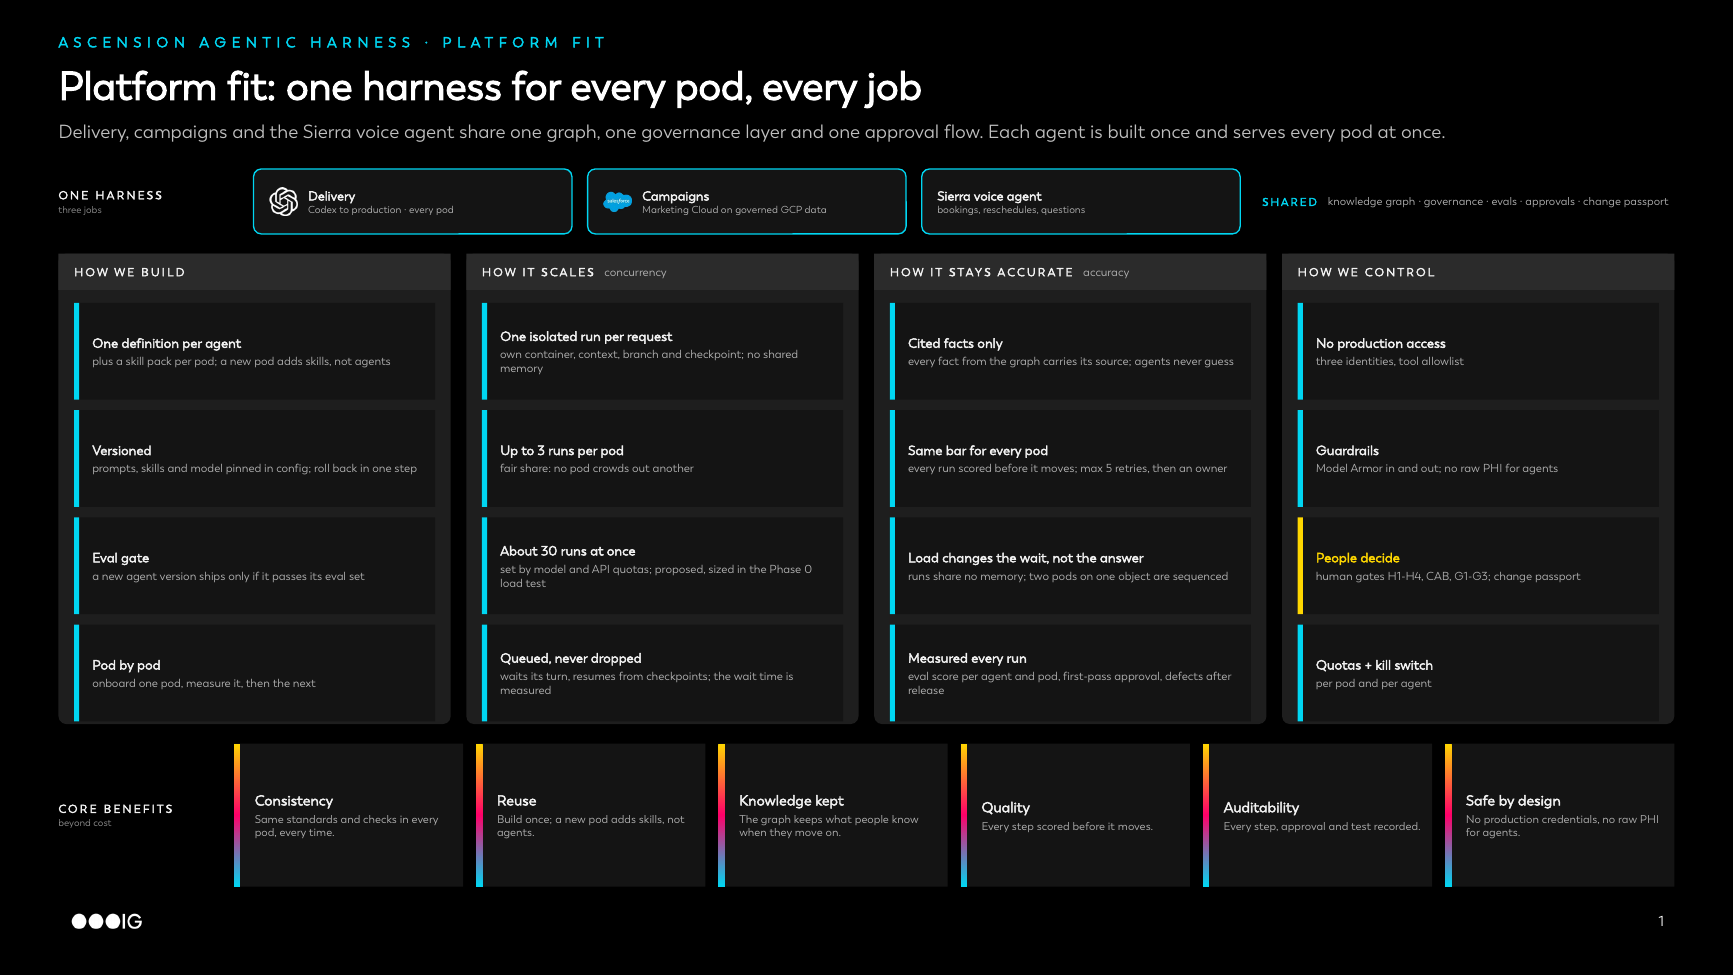
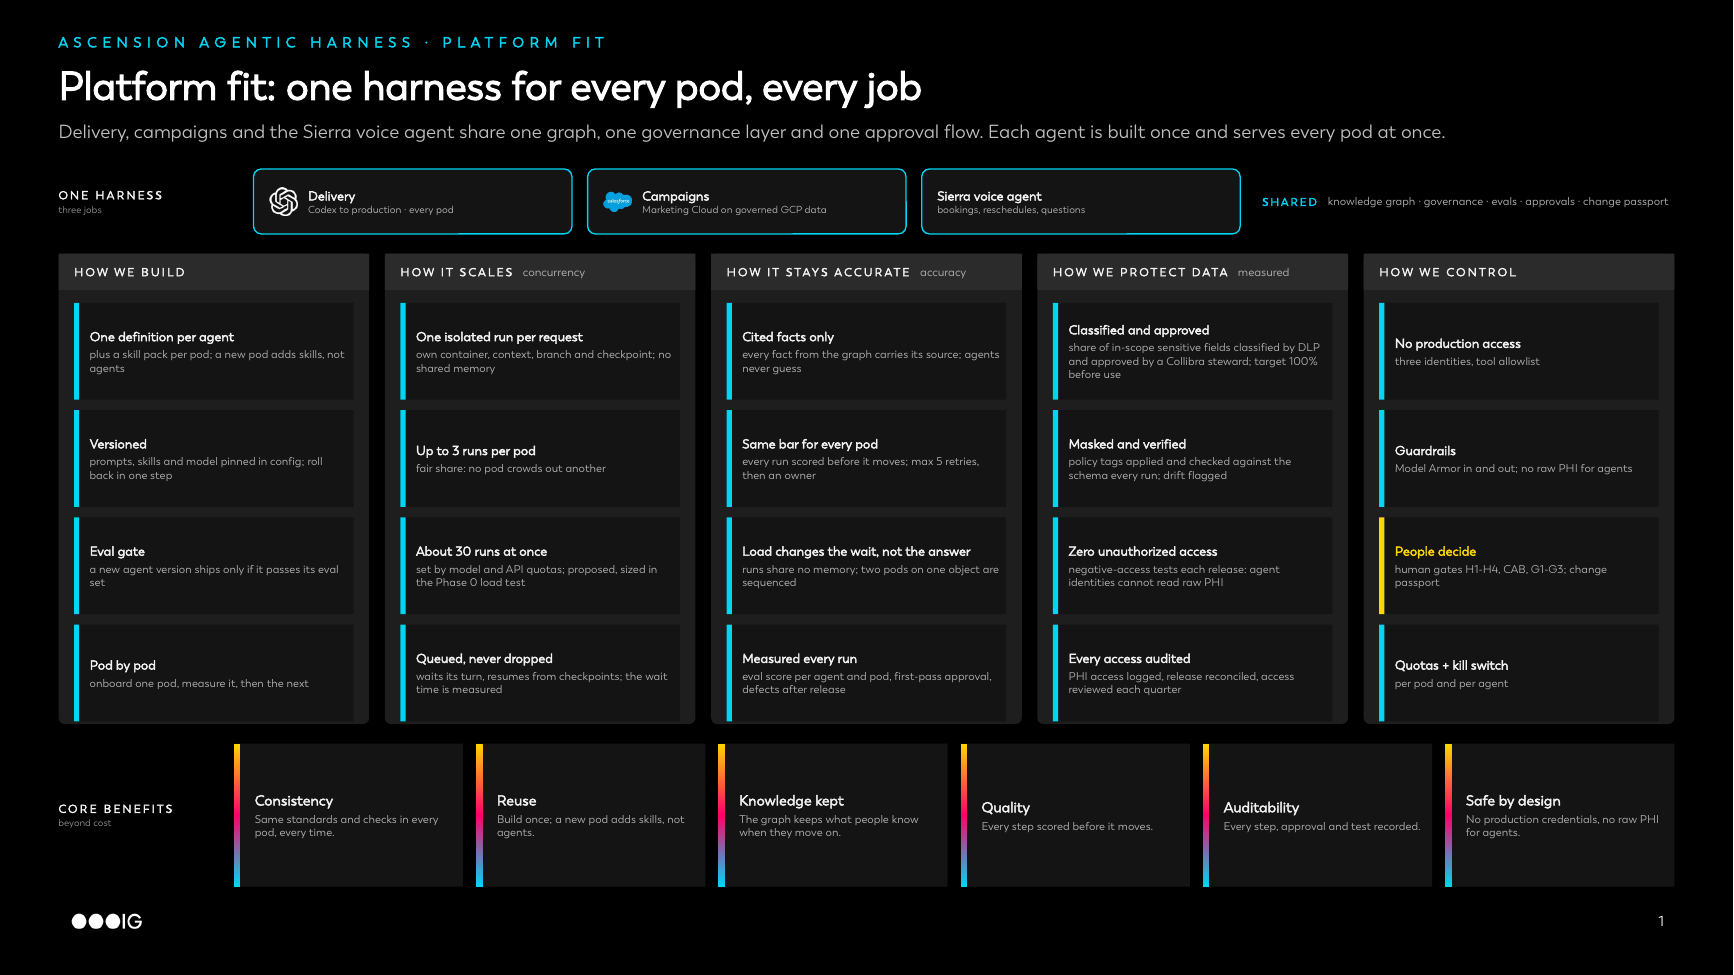
Platform fit preview: add How we protect data (measured) column
Claude-Session: https://claude.ai/code/session_01Hf94kqMzSofkkrQm7kpNba

diff --git a/poc/data_harness/platform_fit.py b/poc/data_harness/platform_fit.py
@@ -1,5 +1,5 @@
-"""One-slide preview: Platform fit. Core benefits, how one agent serves many pods at once, and how the platform is
-built, measured and controlled. Black muted IG style. Not part of the deck yet.
+"""One-slide preview: Platform fit. Core benefits, and how the platform is built, scales, stays accurate, protects
+data and is controlled. Black muted IG style. Not part of the deck yet.
 
     python3 platform_fit.py [out.pptx]
 """
@@ -29,6 +29,7 @@ WALK IT
 - How we build: one definition per agent plus pod skill packs; versioned prompts, skills and model; an eval gate before any new version ships; pods onboard one at a time.
 - How it scales (concurrency): each request is its own isolated run; up to 3 runs per pod so no pod crowds out another; about 30 at once, set by model and API quotas (proposed, sized in the Phase 0 load test); extra requests wait, none are dropped.
 - How it stays accurate: cited facts only; the same eval bar for every pod, max 5 retries then an owner; load changes the wait, not the answer, because runs share no memory; measured every run.
+- How we protect data (measured): share of sensitive fields classified by DLP and approved in Collibra (target 100% before use); masking policy tags verified against the schema every run, drift flagged; negative-access tests each release prove agent identities cannot read raw PHI (target zero); every PHI access logged, releases reconciled, access reviewed each quarter.
 - How we control: no production access, guardrails, people decide at the gates, quotas and a kill switch.
 - Bottom: the core benefits beyond cost: consistency, reuse, knowledge kept, quality, auditability, safe by design."""
 
@@ -89,24 +90,32 @@ def build(prs, layout):
                 ("Load changes the wait, not the answer", "runs share no memory; two pods on one object are "
                  "sequenced"),
                 ("Measured every run", "eval score per agent and pod, first-pass approval, defects after release")]),
+            ("HOW WE PROTECT DATA", "measured", CYAN, [
+                ("Classified and approved", "share of in-scope sensitive fields classified by DLP and approved "
+                 "by a Collibra steward; target 100% before use"),
+                ("Masked and verified", "policy tags applied and checked against the schema every run; drift "
+                 "flagged"),
+                ("Zero unauthorized access", "negative-access tests each release: agent identities cannot read "
+                 "raw PHI"),
+                ("Every access audited", "PHI access logged, release reconciled, access reviewed each quarter")]),
             ("HOW WE CONTROL", "", YELLOW, [
                 ("No production access", "three identities, tool allowlist"),
                 ("Guardrails", "Model Armor in and out; no raw PHI for agents"),
                 ("People decide", "human gates H1-H4, CAB, G1-G3; change passport"),
                 ("Quotas + kill switch", "per pod and per agent")])]
-    cw = (12.43 - 3 * 0.12) / 4
+    cw = (12.43 - 4 * 0.12) / 5
     for k, (t, sub, acc, items) in enumerate(cols):
         x = 0.45 + k * (cw + 0.12)
         panel(cv, x, my, cw, mh, t, sub)
         ih = (mh - 0.28 - 0.12 - 3 * 0.08) / 4
         for j, (it, d) in enumerate(items):
             y = my + 0.38 + j * (ih + 0.08)
-            gate_ = k == 3 and j == 2
+            gate_ = t == "HOW WE CONTROL" and j == 2
             cv.rect(x + 0.12, y, cw - 0.24, ih, CARD, None)
             cv.rect(x + 0.12, y, 0.04, ih, YELLOW if gate_ else CYAN, None)
-            cv.text(x + 0.26, y + 0.04, cw - 0.44, ih - 0.08, [[(it, {"bold": True, "size": 7.4,
-                                                                    "color": YELLOW if gate_ else T1})],
-                                                               [(d, {"color": T2})]], size=6.4,
+            cv.text(x + 0.24, y + 0.04, cw - 0.4, ih - 0.08, [[(it, {"bold": True, "size": 7.2,
+                                                                   "color": YELLOW if gate_ else T1})],
+                                                              [(d, {"color": T2})]], size=6.2,
                     anchor=MSO_ANCHOR.MIDDLE, after=2)
     # ---------------------------------------------------------------- bottom: core benefits
     by, bh2 = 5.72, 1.1
